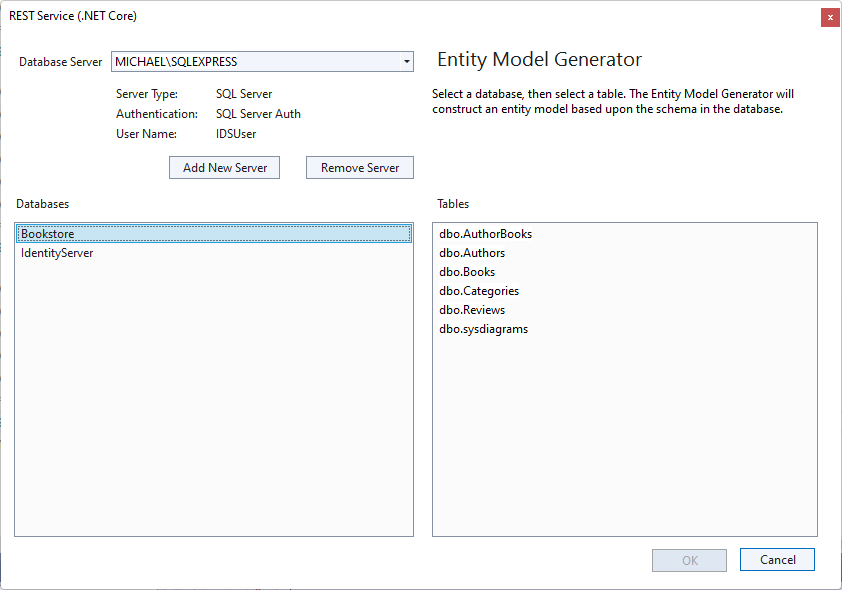
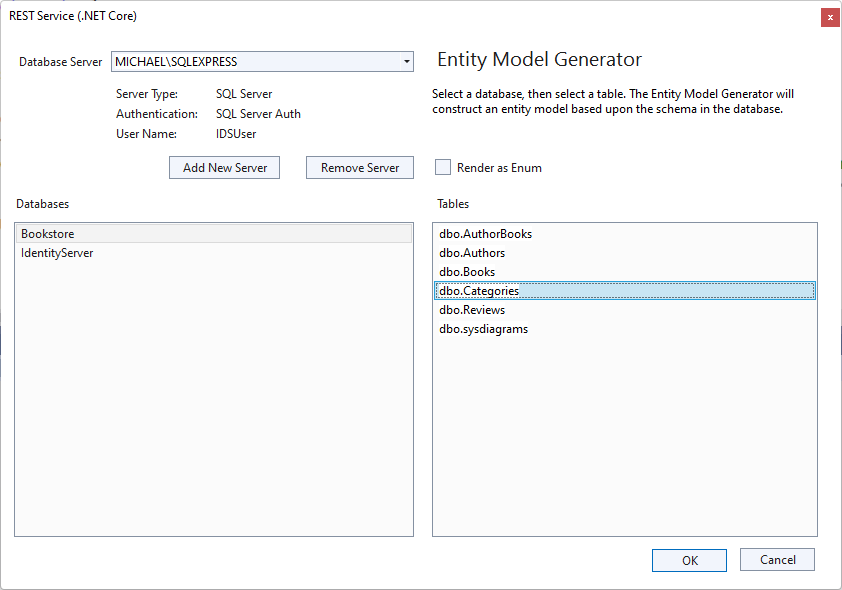
Update Tutorial

diff --git a/Tutorial.md b/Tutorial.md
@@ -119,11 +119,15 @@ The first time you try to create an entity model, the wizard doesn't know anythi
 
 ![alt text](https://github.com/mzuniga58/RESTTemplate/blob/main/Images/AddNewServer.png "Add New Server")
 
-Select the database technology you want to connect to. Remember, we created our database in SQL Server, so choose SQL Server here. Then type in the name of your server, and select either Windows Authority or SQL Server Authority, whichever is appropriate to your installation. If you select SQL Server Authority, you will need to enter your username and password. Once you have it all complete, click on the "check" button to ensure the wizard can talk to your database. Once you have established a connection, hit OK.
+Select the database technology you want to connect to. Remember, we created our database in SQL Server, so choose SQL Server here. Then type in the name of your server, and select either Windows Authority or SQL Server Authority, whichever is appropriate to your installation. If you select SQL Server Authority, you will also need to enter your username and password. Once you have it all complete, click on the "check" button to ensure the wizard can talk to your database. Once you have established a connection, hit OK.
 
-Now, your database is shown at the top of the Entity Model Generator dialog, and the list of databases on that server are shown in the left-hand list box. Select the Bookstore database in that list. When you do, the list of tables for the Bookstore database should appear in the right-hand list. One of those tables should be the Categories table. Select that table and press OK.
+Now, your database is shown at the top of the Entity Model Generator dialog, and the list of databases on that server are shown in the left-hand list box. Select the Bookstore database in that list. When you do, the list of tables for the Bookstore database should appear in the right-hand list. One of those tables should be the Categories table. Select that table.
 
-The generator will now generate an entity model for you. The resulting code should look like this:
+When you select that table, the "Render as Enum" checkbox becomes enabled. If you click around on the other tables, you will notice that the "Render as Enum" checkbox becomes diabled, and you can't change it. Only certain tables are candidates for enum. If the table contains a single primary key of a numeric type, and contains a sinle string member, then that table is a candidate for enum. Not all tables of this nature are good representations of an enum, but this one is, as it as an int as the primary key and a single name field. It is essentially a key/value pair table, and it has a limited number of rows. Such tables are usually good candidates for an enum. You will have to know your data and choose appropriately.
+
+We know we want Category to be an enum, so select that table, check the "Render as Enum" checkbox and hit OK.
+
+The generator will now generate an enum entity model for you. The resulting code should look like this:
 
 ```
 using System;
@@ -133,61 +137,15 @@ using Tense;
 namespace Bookstore.Models.EntityModels
 {
 	///	<summary>
-	///	ECategory
+	///	Enumerates a list of Categories
 	///	</summary>
 	[Table("Categories", Schema = "dbo", DBType = "SQLSERVER")]
-	public class ECategory
+	public enum Category
 	{
 		///	<summary>
-		///	CategoryId
+		///	ActionAndAdventure
 		///	</summary>
-		[Member(IsPrimaryKey = true, IsIdentity = true, AutoField = true, IsIndexed = true, IsNullable = false, NativeDataType="int")]
-		public int CategoryId { get; set; }
-
-		///	<summary>
-		///	Name
-		///	</summary>
-		[Member(IsNullable = false, Length = 50, IsFixed = false, NativeDataType="varchar")]
-		public string Name { get; set; } = string.Empty;
-	}
-}
-```
-
-You notice that the generator has added some annotations to further describe the table. The Table attribute tells us that this model is for the Categories table under the dbo schema on a SQL Server. The Member attribute gives us information about each member. The CategoryId member is a primary key and it is an identity field. It is not nullable, and the native SQL Server data type is int. Likewise, the Name field is not nullable, and it has a native SQL Server data type of varchar, and is limited to 50 characters.
-
-### Adding a Resource Model ###
-But, users don't see entity models, they see resource models. So, let's do that again, this time creating a resource model for the Categories table. Go back to the models folder, but this time, right-click on the ResourceModels folder. Once again, there should be an Add REST Resource Model... menu item. Click on that. A dialog appears where you enter the class name. Enter Category this time. Category is the resource model, and ECategory is the entity model. This naming convention makes it easy to find the corresponding entity model or resource model, as the case may be. Press Ok to get the Resource Model Generator.
-
-![alt text](https://github.com/mzuniga58/RESTTemplate/blob/main/Images/CreateResourceModel.png "Add New Resource")
-
-This time, a list of entity models appears. Select the entity model you wish to make a Resource model for. That's pretty easy at this point, since we only have one entity model defined. Select ECategory.
-
-Now, we could create a resource model for Category that matches the database table. But the category of books don't channge very often. In fact, there hasn't been a new category of books in years. So, instead of creating a table look-up every time we want to know which cateogory a book belongs to, it makes more sense to create an enum. You will notice there is a render as enum check box on the form. Check it and press OK.
-
-The resulting code should look like this:
-
-```
-using System;
-using Tense;
-using Tense.Rql;
-using Microsoft.AspNetCore.Mvc.ModelBinding;
-using Bookstore.Orchestration;
-using System.Collections.Generic;
-using System.ComponentModel.DataAnnotations;
-using Bookstore.Models.EntityModels;
-
-namespace Bookstore.Models.ResourceModels
-{
-	///	<summary>
-	///	Category
-	///	</summary>
-	[Entity(typeof(ECategory))]
-	public enum Category : int
-	{
-		///	<summary>
-		///	Action and Adventure
-		///	</summary>
-		ActionandAdventure = 1,
+		ActionAndAdventure = 1,
 
 		///	<summary>
 		///	Classics
@@ -195,14 +153,14 @@ namespace Bookstore.Models.ResourceModels
 		Classics = 2,
 
 		///	<summary>
-		///	Comic Books or Graphic Novels
+		///	ComicBooksOrGraphicNovels
 		///	</summary>
-		ComicBooksorGraphicNovels = 3,
+		ComicBooksOrGraphicNovels = 3,
 
 		///	<summary>
-		///	Detective and Mystery
+		///	DetectiveAndMystery
 		///	</summary>
-		DetectiveandMystery = 4,
+		DetectiveAndMystery = 4,
 
 		///	<summary>
 		///	Fantasy
@@ -210,7 +168,7 @@ namespace Bookstore.Models.ResourceModels
 		Fantasy = 5,
 
 		///	<summary>
-		///	Historical Fiction
+		///	HistoricalFiction
 		///	</summary>
 		HistoricalFiction = 6,
 
@@ -220,7 +178,7 @@ namespace Bookstore.Models.ResourceModels
 		Horror = 7,
 
 		///	<summary>
-		///	Literary Fiction
+		///	LiteraryFiction
 		///	</summary>
 		LiteraryFiction = 8,
 
@@ -230,18 +188,20 @@ namespace Bookstore.Models.ResourceModels
 		Romance = 9,
 
 		///	<summary>
-		///	Science Fiction
+		///	ScienceFiction
 		///	</summary>
 		ScienceFiction = 10
 	}
 }
 ```
 
-Now, we can't manipulate the categories table with an enum. If we wanted to manipulate that table, we'd need to create an additional resource model that is not an enum. But that isn't very interesting, as this table isn't likely to change in the near future. We can always do that later, if the need arises. For now, we're going to use the enum version and treat categories as if it is carved in stone. 
+You notice that the generator has added some annotations to further describe the table. The **Table** attribute tells us that this model is for the Categories table under the dbo schema on a SQL Server. That's the only annotation you will get for an enum table. Notice it is also using the **Tense** namespace. **Tense** is a nuget package that contains the definition for the Table attribute, and the Member attribute we will use later. That nuget package was already included for you when you first created the RESET Service project.
 
-So, that's it for categories. Now, let's do something a bit more interesting. Let's create an entity model and resource model for something that does change. Go back to the EntityModles folder and create an entity model for books (remember to call it EBooks). Then create a Resource Model for Books.
+Okay, so now we have the **Category** enumerator defined. We needed to do that one first, because it will be used in our next set of classes. So, let's create something a bit more interesting. Let's create an entity/resource model pair for some data we do wish to manipulate. Let's create an **EBook** entity model based off the **Books** database table.
 
-Your code should look like this:
+Once again, right-click on the **EntityModels** folder, select Add REST Entity Model, enter **EBook** as the name of the class. Then, in the Entity Model Generator dialog (this time, your SQL Server you used last time is already pre-populated and selected), choose the **Bookstore** database and select the **Books** table. We don't want an enum this time, so we want to leave the "Render as Enum" checkbox blank. In this case, you couldn't select it if you tried, because the **Books** table doesn't have the structure suitable for an enum. That "Render as Enum" check box will be unchecked, and it will be disabled.
+
+Hit OK to render the new class. It should look like this:
 
 ```
 using System;
@@ -251,10 +211,10 @@ using Tense;
 namespace Bookstore.Models.EntityModels
 {
 	///	<summary>
-	///	EBooks
+	///	EBook
 	///	</summary>
 	[Table("Books", Schema = "dbo", DBType = "SQLSERVER")]
-	public class EBooks
+	public class EBook
 	{
 		///	<summary>
 		///	BookId
@@ -289,6 +249,17 @@ namespace Bookstore.Models.EntityModels
 }
 ```
 
+As you can see, it is a one-to-one mapping to the database table with annotactions. We have the **Table** annotation as we did with the **Category** enum. We also have **Member** annotations on each member, telling us if the member represents a primary key, or a foreign key. It also tells us if the member can be null, what Database Data type it is, and so forth.
+
+### Adding a Resource Model ###
+Having an entity model is all well and fine, but users don't see entity models. They see resource models. So, let's do that again, this time creating a resource model for the Books table. Go back to the models folder, but this time, right-click on the **ResourceModels** folder. Once again, there should be an Add REST Resource Model... menu item. Click on that. A dialog appears where you enter the class name. Enter **Book** this time. **Book** is the resource model, and **EBook* is the entity model. This naming convention makes it easy to find the corresponding entity model or resource model, as the case may be. Press Ok to get the Resource Model Generator.
+
+![alt text](https://github.com/mzuniga58/RESTTemplate/blob/main/Images/CreateResourceModel.png "Add New Resource")
+
+This time, a list of entity models appears. Notice that the **Category** class is conspicously absent from the list. There is never a good reason to create a reosurce model from an enum. They'd just be the same structure with a different class name. Select the entity model you wish to make a Resource model for. That's pretty easy at this point, since we only have one entity model defined. Select **EBook**, and press OK.
+
+Your code should look like this:
+
 ```
 using System;
 using Tense;
@@ -302,10 +273,10 @@ using Bookstore.Models.EntityModels;
 namespace Bookstore.Models.ResourceModels
 {
 	///	<summary>
-	///	Books
+	///	Book
 	///	</summary>
-	[Entity(typeof(EBooks))]
-	public class Books
+	[Entity(typeof(EBook))]
+	public class Book
 	{
 		///	<summary>
 		///	BookId
@@ -325,7 +296,7 @@ namespace Bookstore.Models.ResourceModels
 		///	<summary>
 		///	CategoryId
 		///	</summary>
-		public int CategoryId { get; set; }
+		public Category CategoryId { get; set; }
 
 		///	<summary>
 		///	Synopsis
@@ -343,11 +314,11 @@ namespace Bookstore.Models.ResourceModels
 		{
 			errors.Clear();
 
-			var existingValues = await orchestrator.GetResourceCollectionAsync<Books>(node);
+			var existingValues = await orchestrator.GetResourceCollectionAsync<Book>(node);
 
 			if (existingValues.Count == 0)
 			{
-				errors.AddModelError("Search", "No matching Books was found.");
+				errors.AddModelError("Search", "No matching Book was found.");
 			}
 
 			var selectNode = node.ExtractSelectClause();
@@ -395,11 +366,11 @@ namespace Bookstore.Models.ResourceModels
 		{
 			errors.Clear();
 
-			var existingValues = await orchestrator.GetResourceCollectionAsync<Books>(node);
+			var existingValues = await orchestrator.GetResourceCollectionAsync<Book>(node);
 
 			if (existingValues.Count == 0)
 			{
-				errors.AddModelError("Search", "No matching Books was found.");
+				errors.AddModelError("Search", "No matching Book was found.");
 			}
 
 			return errors.IsValid;
@@ -408,23 +379,25 @@ namespace Bookstore.Models.ResourceModels
 }
 ```
 
-Notice that the new resource model looks pretty much like we'd expect, it has members for each column in the database. However, it has a member called CategoryId, and that member matches the CategoryId in the entity model. But that isn't what we want. We took the trouble to create an enum to represent categories in our resource models, and that is what we want to use here.
+Notice that the new resource model looks pretty much like we'd expect, it has members for each column in the database. However, it has a member called CategoryId, and that member matches the CategoryId in the entity model. However, instead of an int, the CategoryId in our resource model is defined as a Category enum. And that's pretty much what we want, except for one little thing. 
+
+Inside our database model books are grouped by category, but in the real world, the world our customers live in, they prefer to think of this grouping as genres. So, to make our customers happy, let's change the name of this member from CategoryId to Genre.
 
 Change the line of code from
 
 ```
-		public int CategoryId { get; set; }
+		public Category CategoryId { get; set; }
 ```
 
 to
 
 ```
-		public Category Category { get; set; }
+		public Category Genre { get; set; }
 ```
 
-There, now we are using our category enum to represent the category for the book.
+There, now we are using our Category enum to represent the genre for the book. It's worth noting that this is not an uncommon exercise. Don't take the REST Wizard's word for what any resource model column should be named. Don't take the word of the database either. Make the names meaningful to your customer. Little things like this often make the difference between good software and great software.
 
-Also notice, however, that at the bottom we have three pre-defined method for validating a book model.
+Also notice that at the bottom we have three pre-defined methods for validating a book model.
 
 - **CanUpdateAsync** - this method will be called just before we attempt to update a book in the datastore.
 - **CanAddAsync** - this method will be called just before we attempt to add a new book to the datastore.
@@ -432,9 +405,9 @@ Also notice, however, that at the bottom we have three pre-defined method for va
 
 Let's look at each of these a bit more closely.
 
-In the CanUpdateAsync function, we have a reference to the **IOrchestrator** interface, an **RqlNode** and a **ModelStateDictionary** list of errors. We begin by clearing the list of errors. It should be empty anyway, but it's alwasy a good practice to make sure. During the validation process, if we find anything amiss, we will add the error to the list of errors. If at the end of the validation process, there are any errors present in our list, then the update will be abandoned, and the service will return a BadRequest, listing all the errors we found.
+In the **CanUpdateAsync** function, we have a reference to the **IOrchestrator** interface, an **RqlNode** and a **ModelStateDictionary** list of errors. We begin by clearing the list of errors. It should be empty anyway, but it's alwasy a good practice to make sure. During the validation process, if we find anything amiss, we will add the error to the list of errors. If, at the end of the validation process, there are any errors present in our list, then the update will be abandoned and the service will return a BadRequest, listing all the errors we found.
 
-In Rql, the Rql node is going to contain the information needed to create the WHERE clause in the SQL that will eventually be generated. In other words, the Rql node tells us which book, or books, are to be updated. The first question we have in our update validation is, does this Rql node actually specify any books to be updated?
+In RQL, the **RqlNode** is going to contain the information needed to create the WHERE clause in the SQL Statement that will eventually be generated. In other words, the **RqlNode** tells us which book, or books, are to be updated. The first question we have in our update validation is, does this **RqlNode** actually specify any books to be updated?
 
 To answer this question, we make this call
 
@@ -442,11 +415,11 @@ To answer this question, we make this call
 			var existingValues = await orchestrator.GetResourceCollectionAsync<Books>(node);
 ```
 
-This call tells the orchestrator to get the collection of books that matches the Rql node specification. If no books are returned, then there are no books that match the specification, and therefore, there is nothing to update. IF the **Count** property is zero, then there are no books to update, and we record that as an error. It is a BadRequest, because the user has asked us to update books that don't exist.
+This call tells the orchestrator to get the collection of books that matches the **RqlNode** specification. If no books are returned, then there are no books that match the specification, and therefore, there is nothing to update. IF the **Count** property is zero, then there are no books to update, and we record that as an error. It is a BadRequest, because the user has asked us to update books that don't exist.
 
-In Rql, an update does not have to be limited to one single resource. The update can update many resources at once. But when you update many resources, you don't want them all to be the same, you typicallyl just want one or two columns to be the same. Now, the book design we have doesn't really lend itself to mass updates, but there are database schemas that do. We can however, conjure up a scenario where we would want to do multiple updates, albiet, not a very realistic one for books.
+In RQL, an update does not have to be limited to one single resource. The update can update many resources at once. But when you update many resources, you don't want them all to be the same, you typically just want one or two columns to be the same. Now, the book design we have doesn't really lend itself to mass updates, but there are database schemas that do. We can however, for the sake of understanding the concept, conjure up a scenario where we would want to do multiple updates, albiet, not a very realistic one for books.
 
-In books, the synopsis can be null. So, given our list of books, we might want to update all books with a null synopsis, whose publish date was before 1950, and make the synopsis say "classic literature".
+In the **Books** table, the synopsis can be null. So, given our list of books, we might want to update all books with a null synopsis, whose publish date was before 1950, and make the synopsis say "classic literature". Not very realistic, I know. Not all books written prior to 1950 are classics. In fact, most of them are not. But we're only doing this for illustration purposes, so, as they say in the literary world, enhance you willing suspension of disbelief, and just go with it.
 
 To do this, we would first have to generate an RQL statement to select such books:
 
@@ -454,9 +427,9 @@ To do this, we would first have to generate an RQL statement to select such book
 PublishDate<01/01/1950&Synopsis=null
 ```
 
-This Rql statement will select all the books whose Synopsis is null, and whose publish date was before January 1, 1950. In the incoming model, we would have set the Synopsis value to "classic literature". 
+This RQL statement will select all the books whose publish date was before January 1, 1950 (PublishDate<01/01/1950), and (&) whose Synopsis is null (Synopsis=null). In the incoming model, we would have set the Synopsis value to "classic literature". 
 
-But what about the title? We only care to update the synopsis, so the title in our model is likely to be null. But whatever value it is, we don't want to set the title of every book published before 1950 with a null synopsis to that value. We want to leave the value alone. Likewise, we don't want to change the publish date or the category either. To accomplish our task, we add a select statement to the Rql.
+But what about the title? We only care to update the synopsis, so the title in our model is likely to be null. But whatever value it is, we don't want to set the title of every book published before 1950 with a null synopsis to that value. We want to leave the title value alone. Likewise, we don't want to change the publish date or the category either. To accomplish our task, we add a select statement to the RQL.
 
 ```
 PublishDate<01/01/1950&Synopsis=null&select(Synopsis)
@@ -464,7 +437,7 @@ PublishDate<01/01/1950&Synopsis=null&select(Synopsis)
 
 The select statement, in the case of an update, tells us we only want to update the values included in the select statement (in this case, we only update the synopsis column). All the other columns are to be left unchanged.
 
-In the end, this is the SQL that will be generated for this Rql statement:
+In the end, this is the SQL statement that will be generated from this RQL statement:
 
 ```
 UPDATE [dbo].[Books]
@@ -475,9 +448,15 @@ UPDATE [dbo].[Books]
 
 Where the @P0 and @P1 represent SQL parameters, where the value of @P0 is 'classic literature' and the value of @P1 is '01/01/1950T00:00:00.000-0500'.
 
-What this means for our validation routine, is we don't want to inspect the values of columns that are not going to be included in the update statement. We don't care, for example, what the value of Title is in our incoming model, because in this case, the Title value will never be used and won't have any effect on the operation.
+What this means for our validation routine is we don't want to inspect the values of columns that are not going to be included in the update statement. We don't care, for example, what the value of Title is in our incoming model, because in this case, the Title value will never be used and won't have any effect on the operation.
 
-So, the next thing we do in our validation code is to extract the select clause from the Rql statement. There may not be a select clause in the statement, so the returned select clause may be null.
+So, the next thing we do in our validation code is to extract the select clause from the RQL statement. 
+
+```
+			var selectNode = node.ExtractSelectClause();
+```
+
+There may not be a select clause in the statement, so the returned select clause may be null.
 
 Now, it time to check if the Title value is valid.
 
@@ -493,18 +472,18 @@ Now, it time to check if the Title value is valid.
 
 If the select statement is null then all columns in the table will be updated, and so we do have to check the validity of the Title member. If the select clause is not null, then we only have to check the validity of the Title member if the Title member is included in the select clause.
 
-Finally, if we do have to check the validity of the Title, we do so in the enclose code. We verify that the Title is not null or composed entirely of whitespace. A book must have a title. Blank titles are not allowed. Finally, we only have room for 50 characters in the title column, so the title the user gives us must be 50 characters or less.
+Finally, if we do have to check the validity of the Title, we do so in the enclosed code. We verify that the Title is not null or composed entirely of whitespace. A book must have a title. Blank titles are not allowed. Finally, we only have room for 50 characters in the title column, so the title the user gives us must be 50 characters or less.
 
-The validation routine is not intended to be considered complete. You can, and should, add your own business logic to it. For example, one bit of logic we may wish to add is to ensure that the new Title (it may, or may not have changed) does not conflict with any other books. We could implement a unique constraint on the book title member in our SQL definition, or we could ensure that uniqueness here with code. However you want to do it is up to you. In our design, the size of the synopsis is unlimited (well, limited to the maximum text size that SQL Server supports, which is 8000 characters.) You might decide to limit it to something smaller, 2000 characters say. 
+The validation routine is not intended to be considered complete. You can, and should, add your own business logic to it. For example, one bit of logic we may wish to add is to ensure that the new Title (it may, or may not have changed) does not conflict with any other books. We could implement a unique constraint on the book title member in our SQL definition, or we could ensure that uniqueness here with code. However you want to do it is up to you. In our design, the size of the synopsis is unlimited (well, limited to the maximum text size that SQL Server supports, which is 8,000 characters.) You might decide to limit it to something smaller, 2,000 characters say. 
 
-Notice that the select clause logic is missing from the CanAddAsync function. That is because the add function does not recognize Rql. You can put an Rql statement in there if you wish, but it will be ignored.
+Notice that the select clause logic is missing from the **CanAddAsync** function. That is because the add function does not recognize RQL. You can put an RQL statement in there if you wish, but it will be ignored.
 
-Likewise, in the delete validation, we do use the Rql statement to generate the WHERE clause, but the select statement is ignored. When deleting, we don't care about individual columns, we're going to delete them anyway. We just want to know which records to delete.
+Likewise, in the delete validation, we do use the RQL statement to generate the WHERE clause, but the select statement is ignored. When deleting, we don't care about individual columns, we're going to delete them anyway. We just want to know which records to delete.
 
-The validation routines aren't limited to just the object being validated. You can also include dependency validations. For example, you may not wish to delete any books if there are existing reviews assigned to them. You may require the user to first delete all reviews associated with a book before you delete the book. Or, in your orchestration, you can delete all reviews assigned to a book before you delete the book. It's up to you how you want to design your system.
+The validation routines aren't limited to just the object being validated. You can also include dependency validations. For example, you may not wish to delete any books if there are existing reviews assigned to them. You may require the user to first delete all reviews associated with a book before you delete the book. Or, in your orchestration, you can delete all reviews assigned to a book before you delete the book itself. It's up to you how you want to design your system.
 
 ### Mapping Between Resource and Entity ###
-When we eventually get to writing our controller, the user is going to give us a resource model. But, the repository doesn't understand resource models. It understands Entity models. It goes without saying then, that we need a method to translate between Entity and Resource models. We need a Resource -> Entity transformation, and we need an Entity -> Resource translation.
+When we eventually get to writing our controller, the user is going to give us a resource model. But, the repository doesn't understand resource models. It understands entity models. It goes without saying then, that we need a method to translate between entity and resource models. We need a Resource -> Entity transformation, and we need an Entity -> Resource translation.
 
 To do this, we use Automapper. Let's create the translation routines for Books.
 
